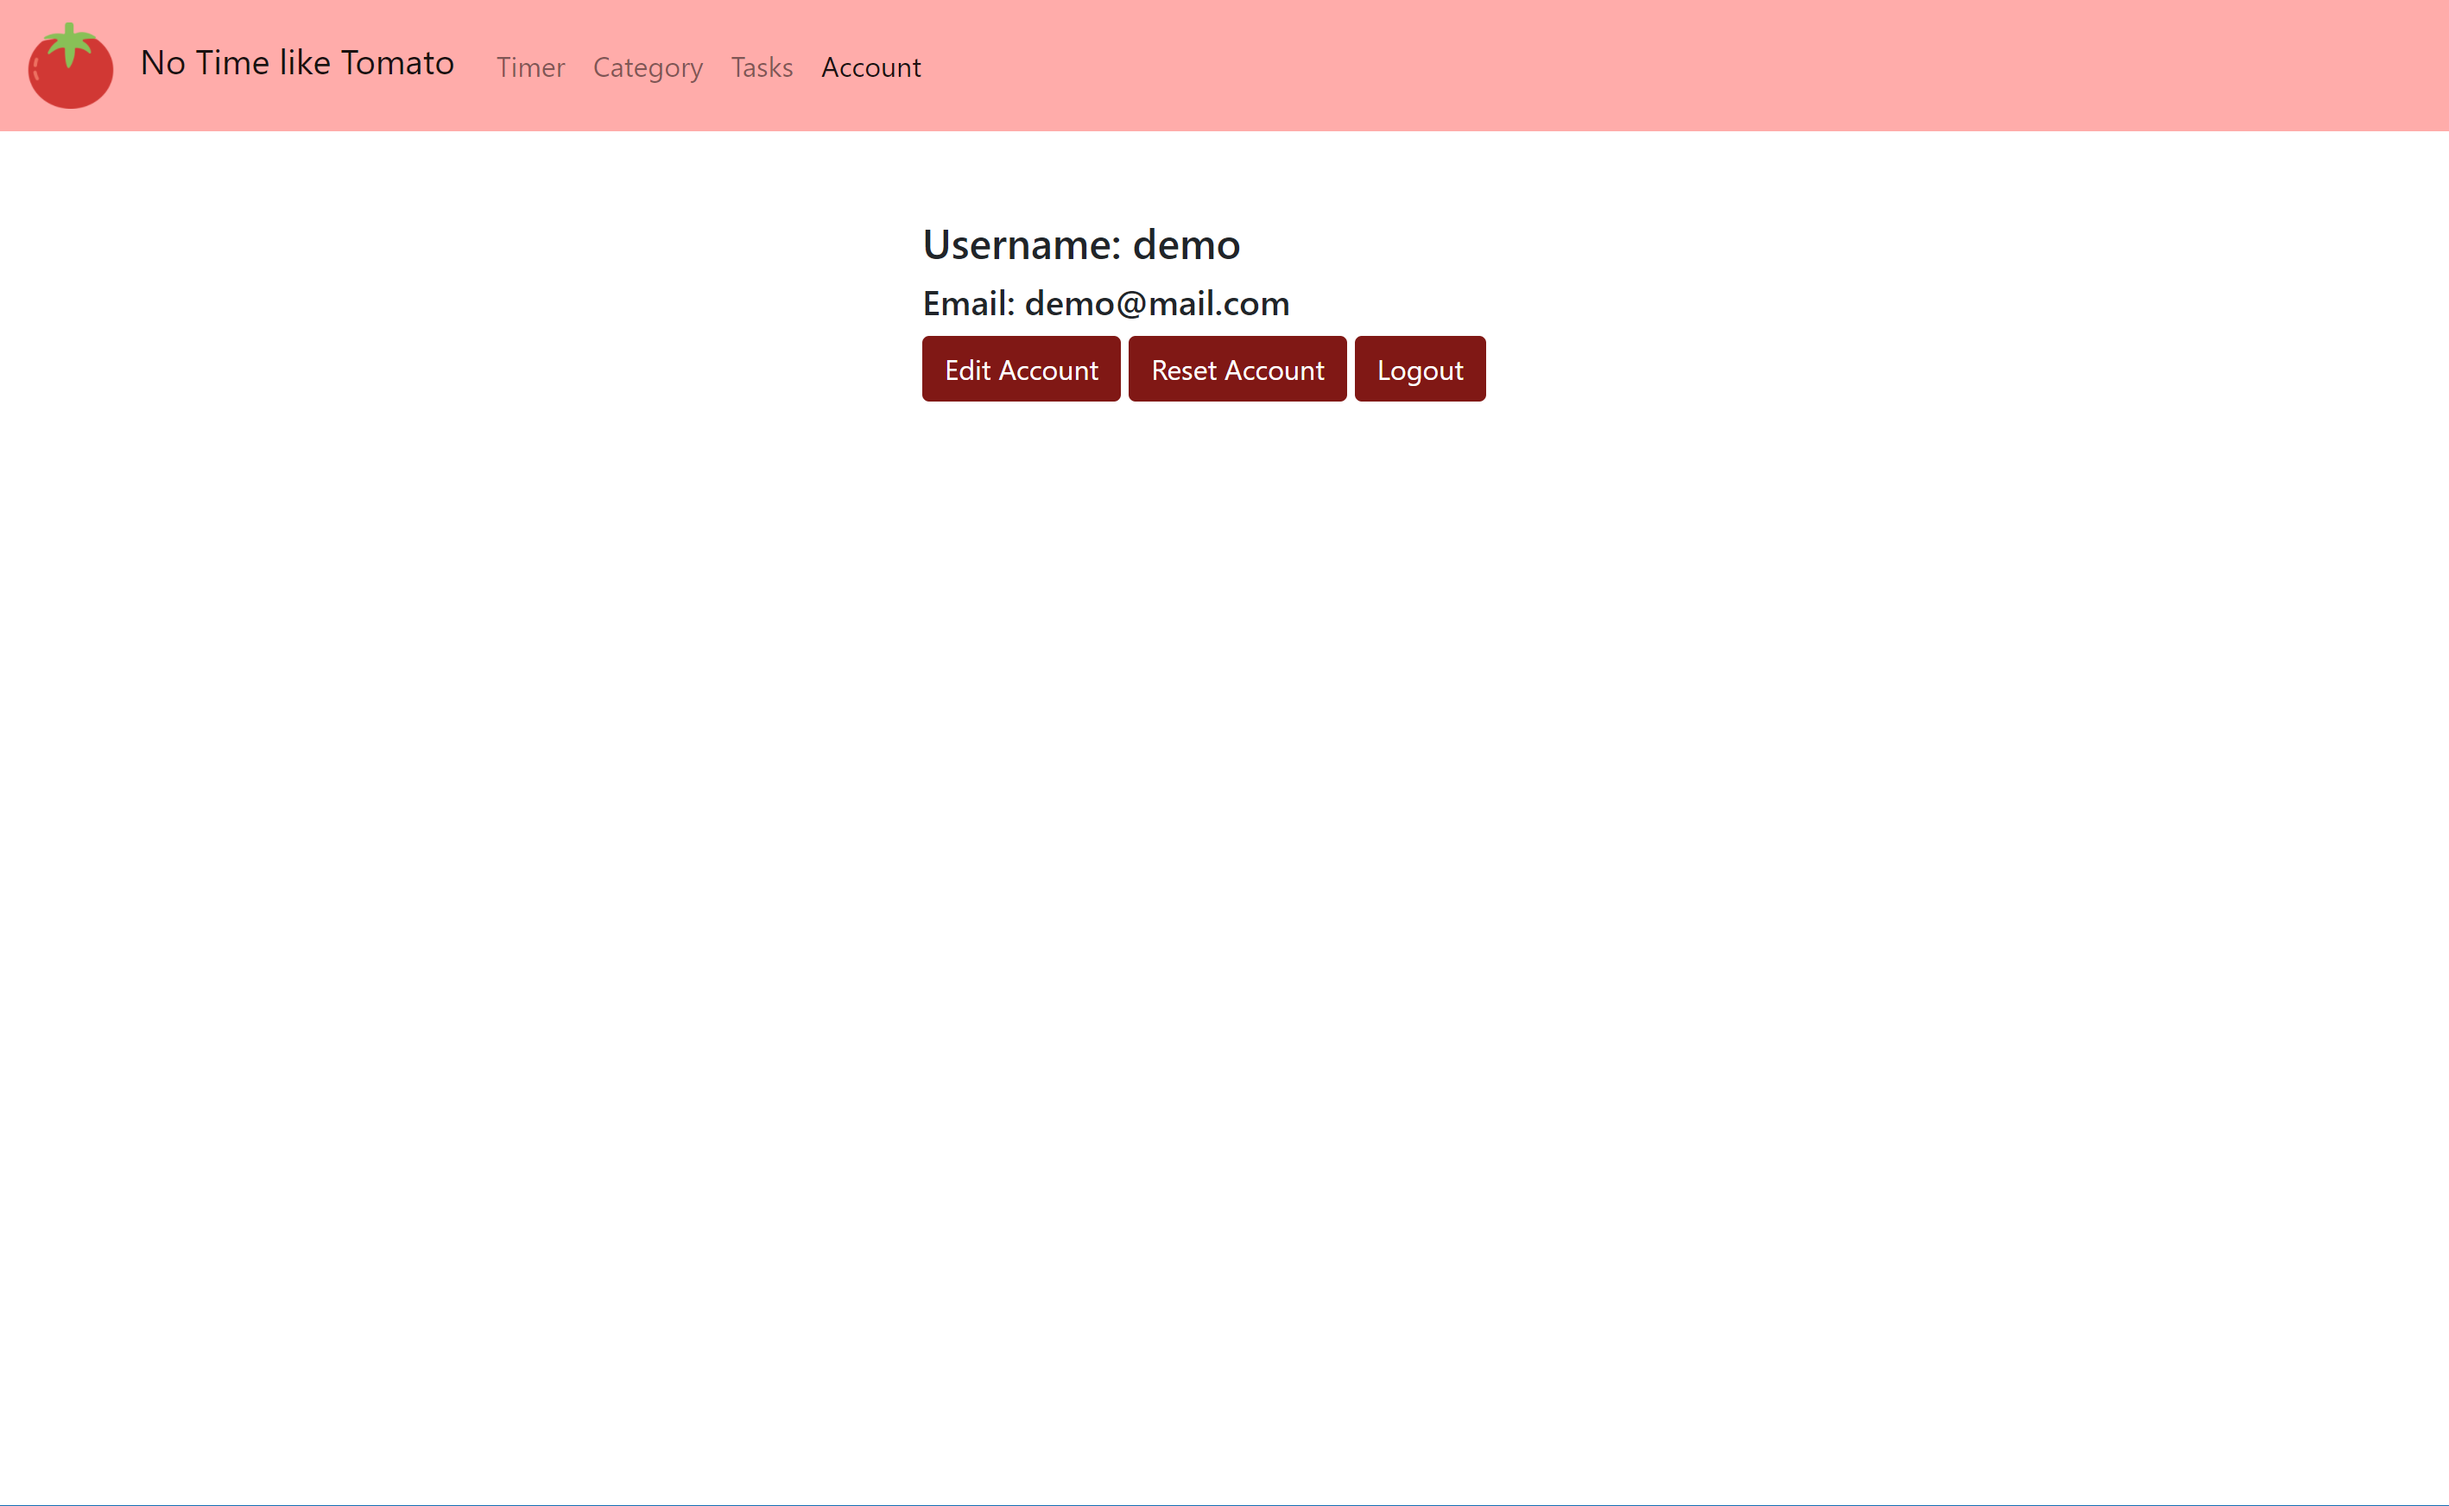
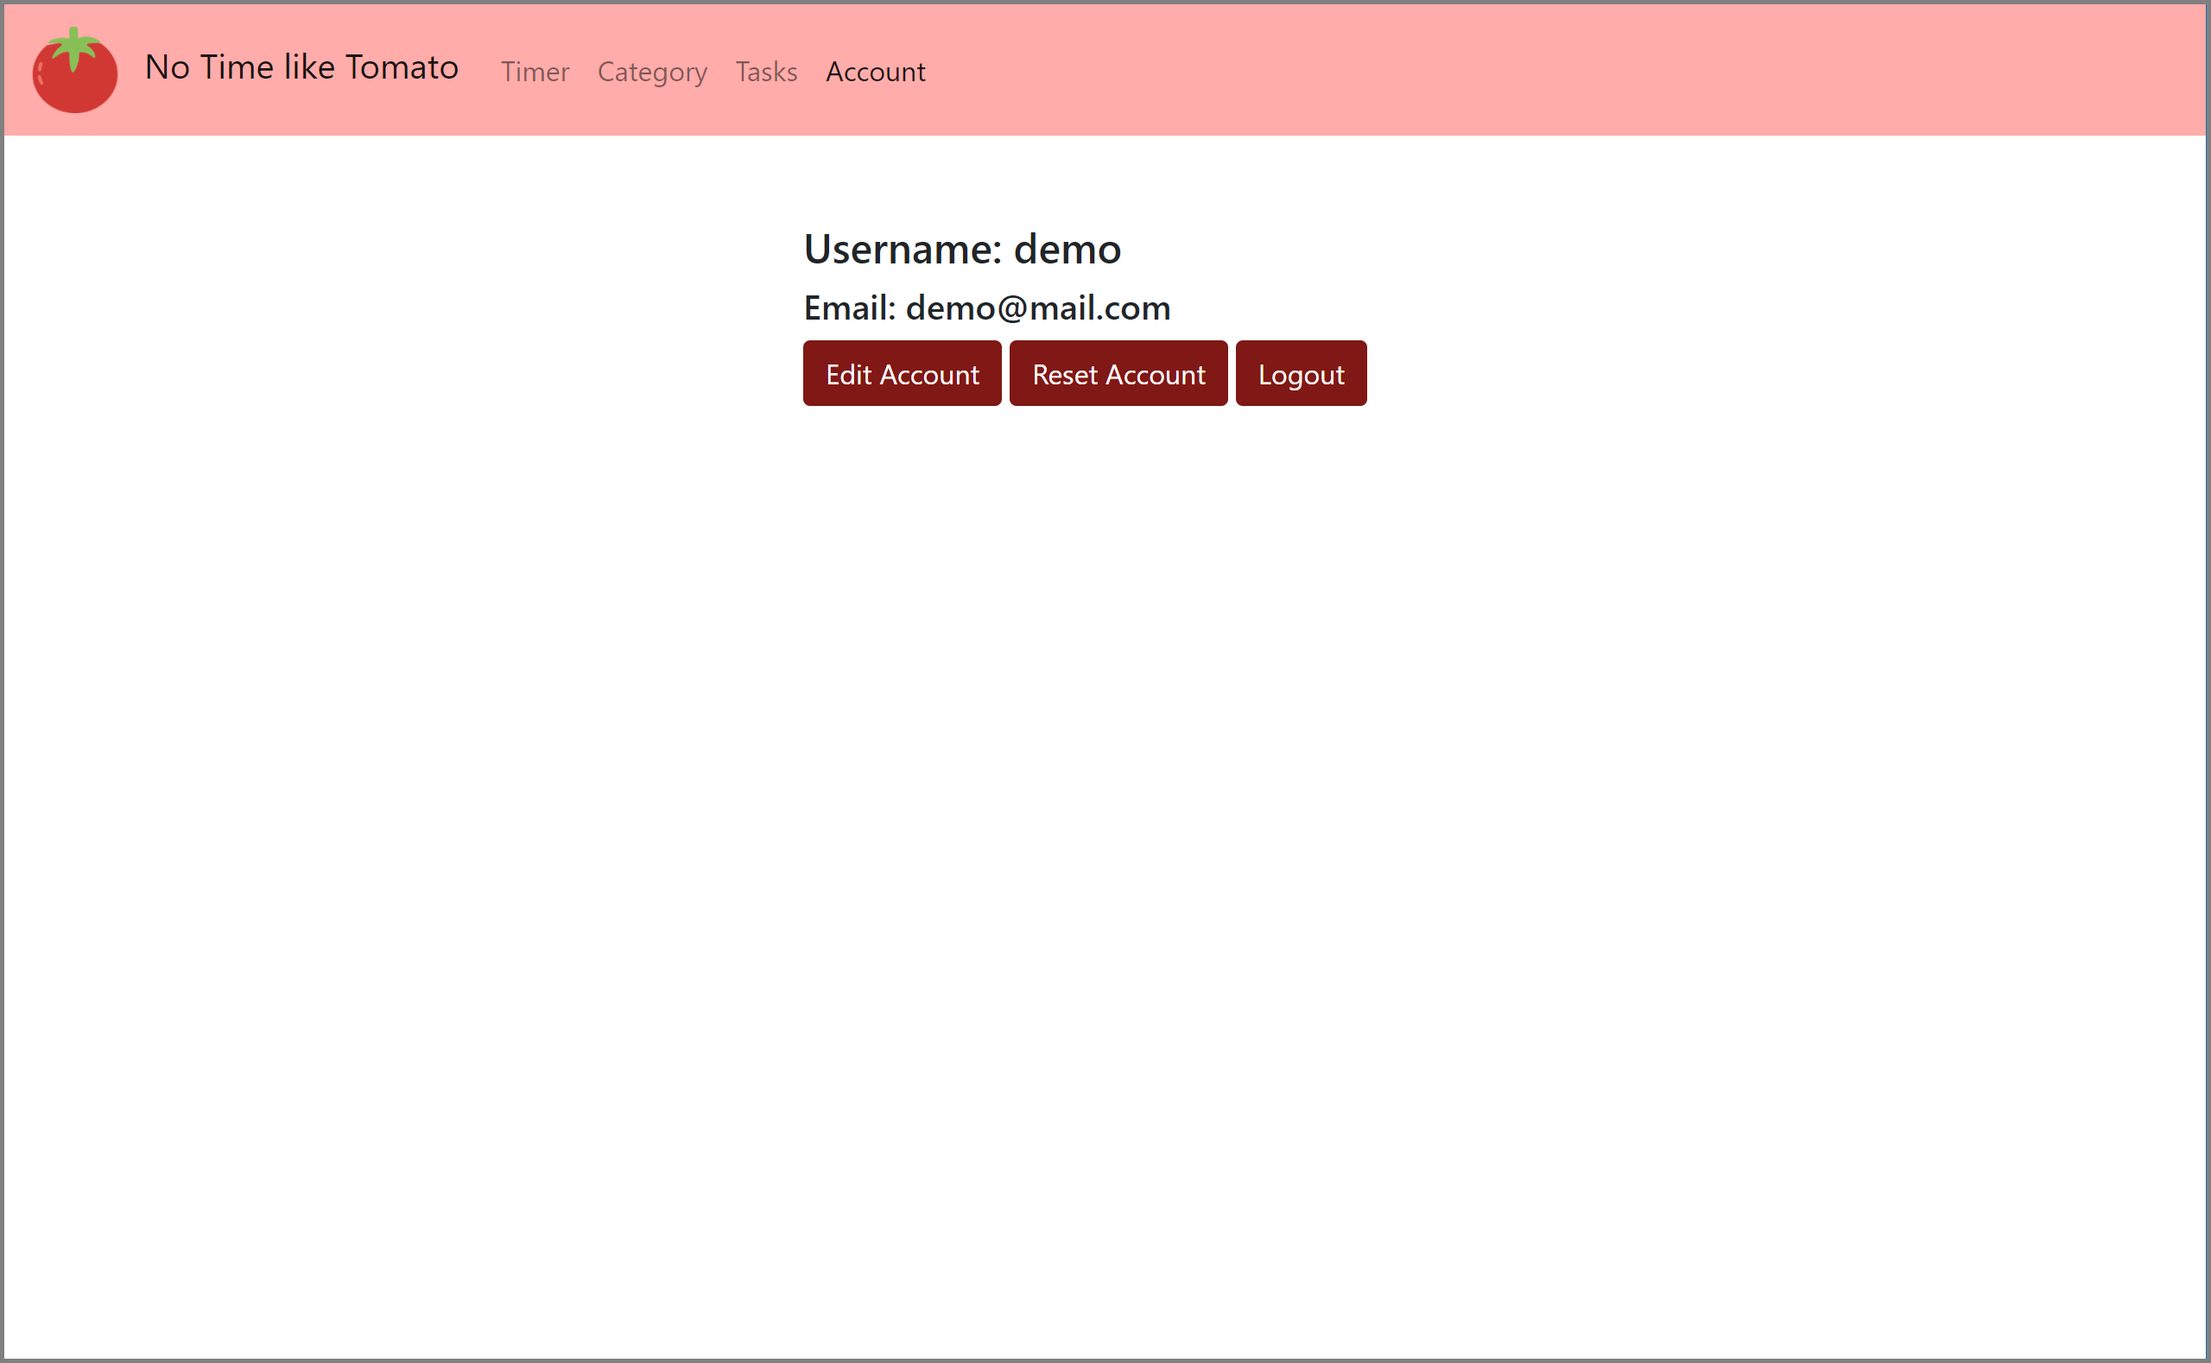
Documentaion screenshots, readme updated

Changed region(s): [[0.0, 0.0, 1.0, 0.1242], [0.3438, 0.1553, 0.625, 0.3105], [0.0, 0.9937, 1.0, 1.0]]

diff --git a/lib/config.js b/lib/config.js
@@ -2,7 +2,6 @@
  *
  * MySQL configuration credentials
  *
- * This file should not be added to version control.
  *
  */
 

diff --git a/README.md b/README.md
@@ -1,24 +1,48 @@
 # tomato
-OSU CS-361 Term Project: Pomodoro App
+OSU CS-361 Software Engineering I Term Project
 
+A Pomodoro-Style Timer Web App
 
 # Technology stack
 
 Frontend:
-HTML
-CSS
-Javascript
-Bootstrap 4
+* HTML 
+* CSS
+* Javascript
+* Bootstrap 4
 
+Backend:
 * NodeJS
 * Express Engine
-* Handlebars (possibly)
 * MySQL
 * jQuery / jQuery UI
+* EJS
 
-Architecture Diagram
 
-![Image of Architecture](https://github.com/jordanpemberton/tomato/blob/master/miscDocs/architecture_diagram.JPG)
+
+Task Page
+
+![Screenshot of Tasks Page](https://github.com/jordanpemberton/tomato/blob/master/miscDocs/tomato_documentation/Tasks.png)
+
+![Screenshot of Tasks Page, Creating Task](https://github.com/jordanpemberton/tomato/blob/master/miscDocs/tomato_documentation/TasksCreateTask.png)
+
+Category Page
+
+![Screenshot of Category Page](https://github.com/jordanpemberton/tomato/blob/master/miscDocs/tomato_documentation/Categories.png)
+
+Timer Page
+
+![Screenshot of Timer Page](https://github.com/jordanpemberton/tomato/blob/master/miscDocs/tomato_documentation/TimerInProgress.png)
+
+![Screenshot of Timer Page, Work Countdown Warning](https://github.com/jordanpemberton/tomato/blob/master/miscDocs/tomato_documentation/TimerWorkCountdownWarning.png)
+
+![Screenshot of Timer Page, Break Countdown Warning](https://github.com/jordanpemberton/tomato/blob/master/miscDocs/tomato_documentation/TimerBreakCountdownWarning.png)
+
+Account Page
 
 ![Screenshot of Account Page](https://github.com/jordanpemberton/tomato/blob/master/miscDocs/tomato_documentation/AccountPage.png)
 
+
+<!-- Architecture Diagram
+
+![Image of Architecture](https://github.com/jordanpemberton/tomato/blob/master/miscDocs/architecture_diagram.JPG) -->
